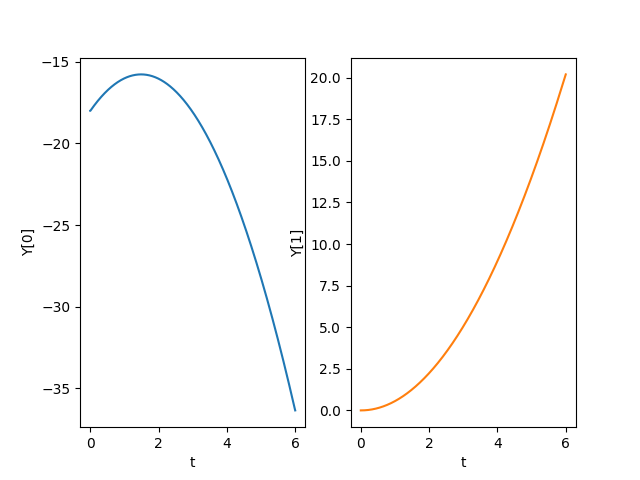
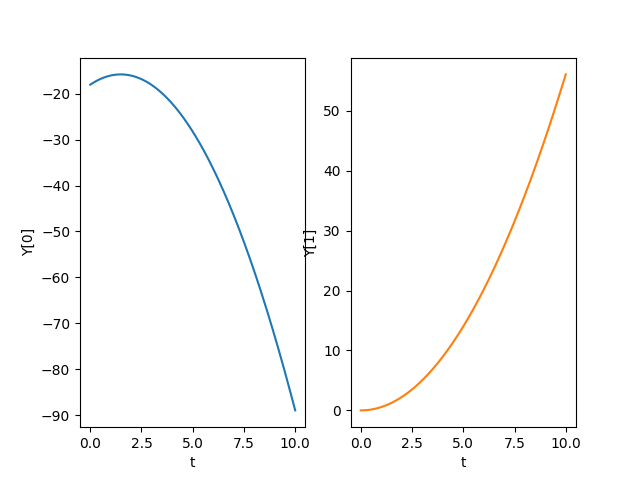
ground detection in roller plane fixed

diff --git a/Solution.py b/Solution.py
@@ -1,12 +1,12 @@
 import numpy as np
 
 # from expl.FreePendulum import FreePendulum
-# from expl.RollerPlane import RollerPlane
-from expl.FreeSpring import FreeSpring
+from expl.RollerPlane import RollerPlane
+# from expl.FreeSpring import FreeSpring
 
 # model = FreePendulum("FreiBeweglichesPendel")
-# model = RollerPlane("RolleBeweglicheSchiefeEbene")
-model = FreeSpring("FreiSchwingendeFeder")
+model = RollerPlane("RolleBeweglicheSchiefeEbene")
+# model = FreeSpring("FreiSchwingendeFeder")
 T = model.T
 solution = model.solution
 staticShapes = model.staticShapes

diff --git a/expl/RollerPlane.py b/expl/RollerPlane.py
@@ -45,7 +45,7 @@ class RollerPlane(Model):
     Y0 = np.array([u0, theta0, v0, omega0])
 
     # time window [s]
-    Model.T = 6.0
+    Model.T = 10.0
     t = [0, Model.T]
     
     # generate solution
@@ -66,6 +66,8 @@ class RollerPlane(Model):
     def coordTrans(self, pos):
         x = pos[0] + R*pos[1]*np.cos(phi)
         y = H - R*pos[1]*np.sin(phi)
-        # if y2 <= 0.0:
-        #     y2 = 0.0
+        
+        for i in range(y.size):
+            if y[i] <= 0.0:
+                y[i] = 0.0
         return [pos[0],0.0*pos[0],x,y]

diff --git a/expl/Model.py b/expl/Model.py
@@ -23,7 +23,7 @@ class Model:
     def equationSystem(t, Y):
         pass
 
-    ######################### Solving differential equation ######################### #!
+    ######################### Solving differential equation #########################
 
     # differential equation solver scipy.integrate.solve_ivp needs:
     #   a function that calculates the derivative at given point in time (here: equationSystem)

diff --git a/DEAnimationAdvanced.py b/DEAnimationAdvanced.py
@@ -46,7 +46,7 @@ for i in range(len(Solution.movingShapes)):
 
 miscShapes = []
 spring = AnimationShapes.ConnectingShape(Spring((0,0), (0,0), ax, r=0.5*circleRadius, ns=10), masses[1], staticShapes[0])
-miscShapes.append(spring)
+# miscShapes.append(spring)
 
 # collect all shapes in array to pass to animate()
 shapes = [
